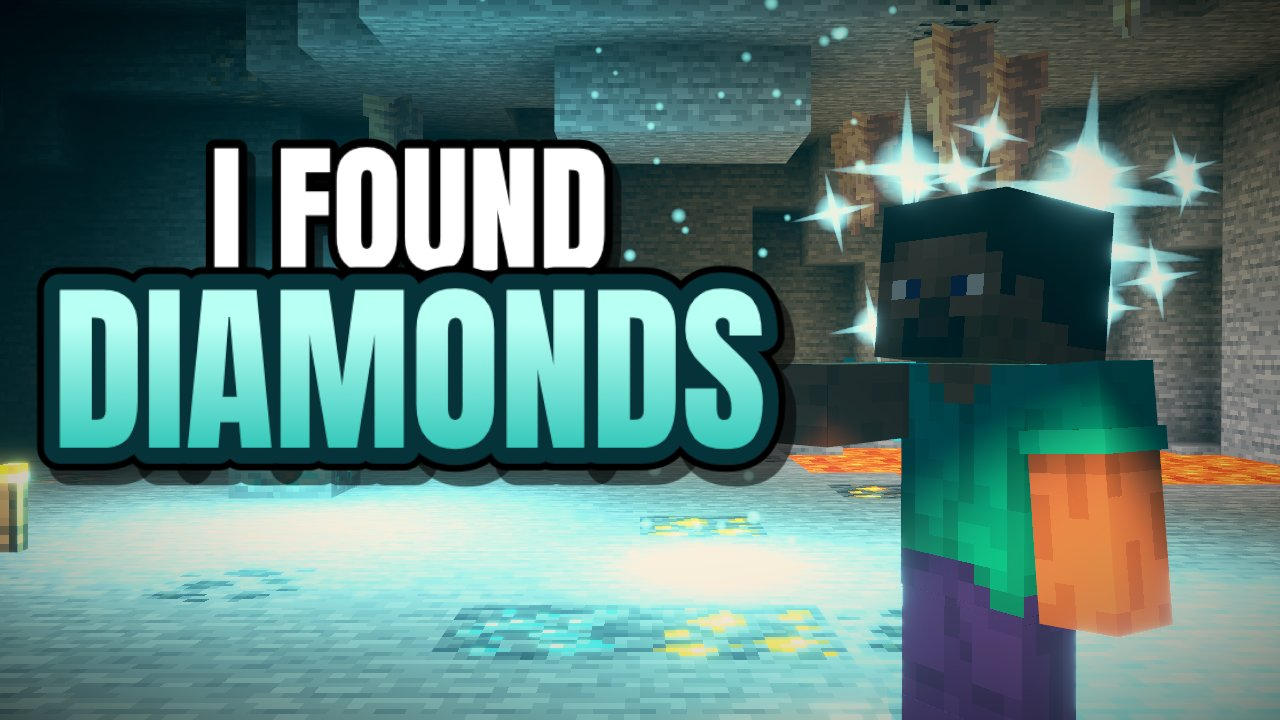
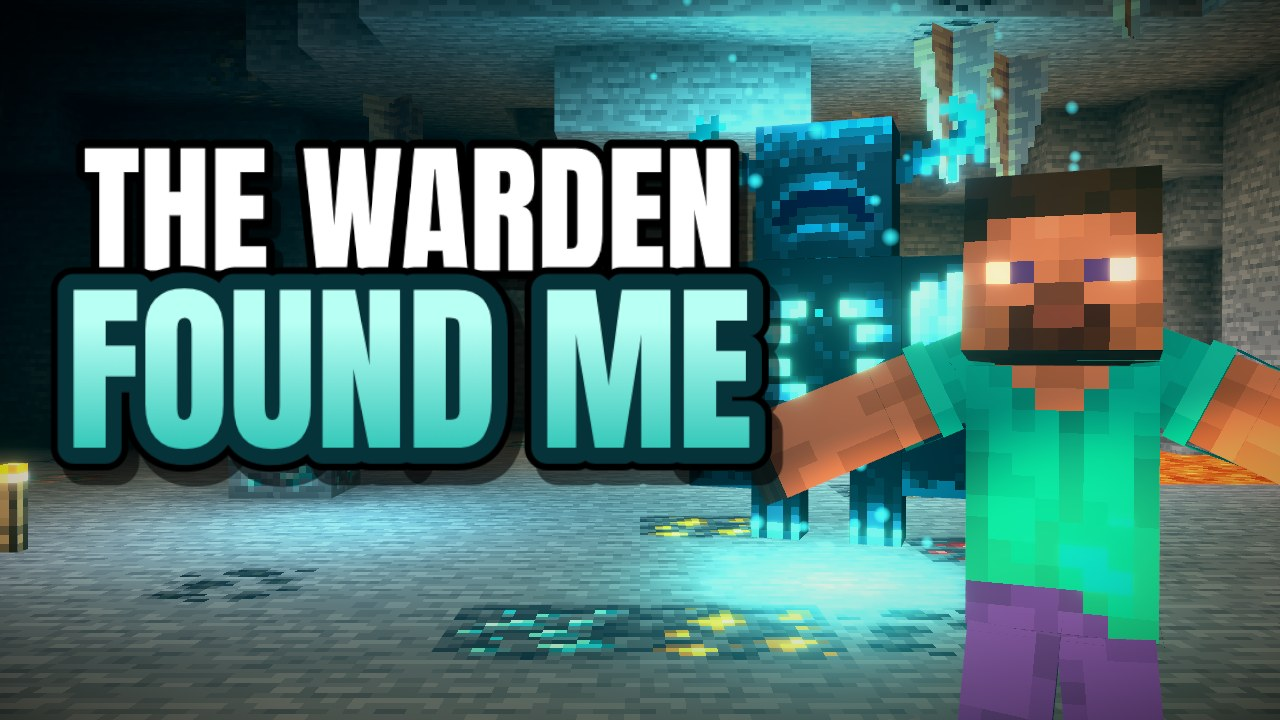
Presets: dungeon Versus with a white VS, untitled Fans poster, re-seated horse rider, Warden concept
- Versus now fights in a new mossy dungeon prop (spawner, chests, wall torches) under a big white VS.
- The Fans poster leaves the sky either side of the giant open for the user's own title.
- Horseback survival turns the horse more side-on and sits Steve higher in the saddle, leaning into the rear;
  the WITH MY HORSE ribbon is gone.
- I found diamonds is replaced by The Warden found me: the Warden looms out of a sculk-lit cave behind a
  terrified player, keeping the stacked two-line title.

Claude-Session: https://claude.ai/code/session_018FphS8BkbqogCNML9Bqtks

diff --git a/src/renderer/src/templates.ts b/src/renderer/src/templates.ts
@@ -2,7 +2,7 @@
 // framed by a saved camera shot. Everything is a normal scene object afterwards, so users just edit the text
 // and swap in their own skin.
 import { buildTower, buildTrunk, type BackdropId } from '@shared/minecraft/backdrops'
-import { buildGlassPane, ruinBlocks, scrambleBlocks } from '@shared/minecraft/props'
+import { buildDungeon, buildGlassPane, ruinBlocks, scrambleBlocks } from '@shared/minecraft/props'
 import type { TerrainData } from '@shared/types'
 import { VFX_PRESETS, type VfxType } from './vfx'
 import * as THREE from 'three'
@@ -208,7 +208,7 @@ function turn(yaw: number, pitch = 0): Vec3 {
 /** Where a rider sits on a horse standing at `at`, turned and leaning like the horse. */
 function saddleOf(at: Vec3, yaw: number, pitch = 0): Vec3 {
   const d = THREE.MathUtils.degToRad
-  const seat = new THREE.Vector3(0, 0.8, -0.1).applyEuler(new THREE.Euler(d(pitch), d(yaw), 0, 'YXZ'))
+  const seat = new THREE.Vector3(0, 0.85, -0.1).applyEuler(new THREE.Euler(d(pitch), d(yaw), 0, 'YXZ'))
   return [at[0] + seat.x, at[1] + seat.y, at[2] + seat.z]
 }
 
@@ -227,21 +227,34 @@ const HORDE_HERO: Vec3 = [-0.42, 0, 2.2]
 export const TEMPLATES: Template[] = [
   {
     id: 'reaction',
-    name: 'Shocked find',
-    hint: 'Big two-line title on the left, you shocked on the right in a cave glittering with diamonds',
+    name: 'The Warden found me',
+    hint: 'Big two-line title on the left, you terrified on the right as the Warden looms out of the dark',
     backdrop: 'cave',
     sky: 'night',
     look: 'teal-orange',
     effects: { bloom: true, bloomIntensity: 0.7, bloomThreshold: 0.7, vignette: true, vignetteDarkness: 0.6 },
-    settings: { renderMode: 'cinematic', sunStrength: 0, ambientStrength: 0.3, fog: true },
-    players: [{ name: 'Steve', pose: 'Pointing', tweak: { head: [-5, 0, 0] }, at: [1.05, 0, 1.6], yaw: -60 }],
-    vfx: [
-      { effect: 'shine', at: [2.2, 1.2, -1.5], color: '#8ff0ff', density: 0.4, scale: 1.1 },
-      { effect: 'embers', at: [0.5, -0.5, -2], color: '#7df9ff', density: 0.4, scale: 0.8 }
+    settings: { renderMode: 'cinematic', sunStrength: 0, ambientStrength: 0.25, fog: true },
+    players: [
+      {
+        name: 'Steve',
+        pose: 'Shocked',
+        tweak: { head: [-10, 0, 0], rightArm: [-35, 0, -65], leftArm: [-35, 0, 65] },
+        at: [1.15, 0, 1.9],
+        yaw: -25
+      }
     ],
+    mobs: [
+      {
+        mob: 'warden',
+        at: [1.45, 0, -3.0],
+        yaw: -20,
+        parts: { right_arm: [-70, 0, 0], left_arm: [-55, 0, 0], head: [10, 0, 0] }
+      }
+    ],
+    vfx: [{ effect: 'embers', at: [1.2, -0.5, -1.5], color: '#29dfeb', density: 0.4, scale: 0.9 }],
     texts: [
       {
-        text: 'I FOUND',
+        text: 'THE WARDEN',
         color: '#ffffff',
         style: 'Bold white',
         screen: [-0.36, 0.36],
@@ -249,7 +262,7 @@ export const TEMPLATES: Template[] = [
         look: { font: '"Anton", Impact, sans-serif', outlineWidth: 10, outline2Width: 0 }
       },
       {
-        text: 'DIAMONDS',
+        text: 'FOUND ME',
         color: '#b8fff4',
         style: 'Diamond',
         screen: [-0.36, -0.1],
@@ -258,16 +271,20 @@ export const TEMPLATES: Template[] = [
       }
     ],
     lights: [
-      { at: [0.2, 2.2, 4.4], aim: [1.05, 1.6, 1.6], color: '#ffc27a', intensity: 160, range: 8 },
-      { at: [2.6, 2.2, -0.5], color: '#5fe8ff', intensity: 90, range: 6 },
-      { at: [-2.5, 1.6, -3.5], color: '#5fe8ff', intensity: 120, range: 9 }
+      { at: [0.4, 2.5, 4.4], aim: [1.15, 1.6, 1.9], color: '#ffc27a', intensity: 260, range: 8 },
+      { at: [0.9, 1.9, 3.3], color: '#ffd8b0', intensity: 8, range: 2.5 },
+      { at: [1.3, 2.8, -1.7], color: '#5fe8ff', intensity: 35, range: 2.5 },
+      // Sculk glow on the Warden, from in front and from behind.
+      { at: [0.6, 2.6, 0.2], aim: [1.45, 2.6, -3.0], color: '#29dfeb', intensity: 240, range: 6 },
+      { at: [2, 3.4, -5.4], color: '#1fb5c9', intensity: 120, range: 6 },
+      { at: [-2.5, 1.6, -3.5], color: '#1d7f9a', intensity: 80, range: 9 }
     ],
     camera: { position: [0, 1.45, 4.6], target: [0, 1.4, 0] },
     fov: 40
   },
   {
     id: 'survival',
-    name: 'Survival with my horse',
+    name: 'Horseback survival',
     hint: 'Big two-line title on the left, you on a rearing horse bursting out of the dark on the right',
     backdrop: 'forest',
     sky: 'night',
@@ -278,10 +295,11 @@ export const TEMPLATES: Template[] = [
       {
         name: 'Steve',
         pose: 'Sitting',
-        tweak: { head: [0, -20, 0], leftArm: [-165, 0, -15] },
-        at: saddleOf(SURVIVAL_HORSE, -55, -30),
-        yaw: -55,
-        pitch: -30,
+        tweak: { head: [0, 30, 0], rightArm: [-160, 0, 15] },
+        at: saddleOf(SURVIVAL_HORSE, -75, -30),
+        yaw: -75,
+        // Leaning into the rear, less tilted than the horse.
+        pitch: -15,
         equipment: { head: 'diamond' }
       }
     ],
@@ -289,7 +307,7 @@ export const TEMPLATES: Template[] = [
       {
         mob: 'horse',
         at: SURVIVAL_HORSE,
-        yaw: -55,
+        yaw: -75,
         pitch: -30,
         texture: 'entity/horse/horse_creamy',
         parts: { right_front_leg: [-50, 0, 0], left_front_leg: [-75, 0, 0], head_parts: [-15, 0, 0] }
@@ -311,13 +329,6 @@ export const TEMPLATES: Template[] = [
         screen: [-0.33, -0.1],
         height: 0.42,
         look: { font: '"Anton", Impact, sans-serif' }
-      },
-      {
-        text: 'WITH MY HORSE',
-        color: '#ffffff',
-        screen: [-0.34, -0.46],
-        height: 0.12,
-        look: { font: '"Anton", Impact, sans-serif', outlineColor: '#e0161b', outlineWidth: 34, shadow: true }
       }
     ],
     lights: [
@@ -332,8 +343,8 @@ export const TEMPLATES: Template[] = [
   {
     id: 'versus',
     name: 'Versus showdown',
-    hint: 'Two armoured fighters face off at the edges of the frame, weapons crossing, title across the top',
-    backdrop: 'cave',
+    hint: 'Two armoured fighters face off in a mossy dungeon, weapons crossing, a big VS between them',
+    backdrop: null,
     sky: 'night',
     look: 'teal-orange',
     effects: { bloom: true, bloomIntensity: 0.7, bloomThreshold: 0.7, vignette: true, vignetteDarkness: 0.45 },
@@ -356,13 +367,27 @@ export const TEMPLATES: Template[] = [
         equipment: { head: 'diamond', chest: 'diamond', legs: 'diamond', feet: 'diamond', mainHand: 'bow' }
       }
     ],
-    texts: [{ text: 'BATTLE', color: YELLOW, style: 'Gold', screen: [0, 0.68], height: 0.3 }],
+    props: [{ name: 'Dungeon', build: () => buildDungeon(), at: [0, -1, 0] }],
+    texts: [
+      {
+        text: 'VS',
+        color: '#ffffff',
+        style: 'Bold white',
+        screen: [0, 0.48],
+        height: 0.5,
+        look: { outlineColor: '#141414', outline2Color: '#000000' }
+      }
+    ],
     lights: [
       { at: [-0.4, 2.4, 3.4], aim: [-1.1, 1.6, 0.3], color: '#ffe0a8', intensity: 70, range: 9 },
       { at: [0.4, 2.4, 3.4], aim: [1.1, 1.6, 0.3], color: '#c8f6ff', intensity: 70, range: 9 },
-      { at: [-3, 2.2, -5], color: '#ff9a3c', intensity: 45, range: 8 },
-      { at: [3, 2.2, -5], color: '#ff9a3c', intensity: 45, range: 8 },
-      { at: [0, 1.2, -7], color: '#ff6a2a', intensity: 25, range: 7 }
+      // The dungeon's wall torches.
+      { at: [-6, 2.6, -3.5], color: '#ff9a3c', intensity: 18, range: 7 },
+      { at: [6, 2.6, -3.5], color: '#ff9a3c', intensity: 18, range: 7 },
+      { at: [-5, 2.6, -5], color: '#ff9a3c', intensity: 18, range: 6 },
+      { at: [5, 2.6, -5], color: '#ff9a3c', intensity: 18, range: 6 },
+      // Spawner glow at the back.
+      { at: [0, 0.8, -4.8], color: '#ff6a2a', intensity: 18, range: 4 }
     ],
     camera: { position: [0, 1.6, 3.15], target: [0, 1.6, -1] },
     fov: 40
@@ -511,7 +536,7 @@ export const TEMPLATES: Template[] = [
   {
     id: 'poster',
     name: 'Poster title',
-    hint: 'A crowned giant looms over three players running at you, the title split either side of its head',
+    hint: 'A crowned giant looms over three players running at you, with open sky either side of its head for your own title',
     backdrop: 'nether',
     sky: 'color',
     skyColor: '#a3101a',
@@ -552,24 +577,7 @@ export const TEMPLATES: Template[] = [
       { name: 'Alex', pose: 'Sprinting', at: [0, 0, 0.6], yaw: 0 },
       { name: 'Steve', pose: 'Running', at: [1.05, 0, 0.2], yaw: -12, equipment: { mainHand: 'diamond_sword' } }
     ],
-    texts: [
-      {
-        text: 'FANS',
-        color: '#ffffff',
-        style: 'Bold white',
-        screen: [-0.6, 0.54],
-        height: 0.3,
-        look: { font: '"Bungee", sans-serif', outline2Color: '#7a0008' }
-      },
-      {
-        text: 'SMP',
-        color: '#ffffff',
-        style: 'Bold white',
-        screen: [0.6, 0.54],
-        height: 0.3,
-        look: { font: '"Bungee", sans-serif', outline2Color: '#7a0008' }
-      }
-    ],
+    texts: [],
     lights: [
       { at: [0, 3, 5.5], aim: [0, 1, 0.3], color: '#ffffff', intensity: 40, range: 10 },
       { at: [0, 6, -14], color: '#ff2a2a', intensity: 400, range: 24 },

diff --git a/src/shared/minecraft/props.ts b/src/shared/minecraft/props.ts
@@ -300,3 +300,30 @@ export function buildTree(kind: TreeKind, seed: number): TerrainData {
     return [leaves, { persistent: 'true', distance: '1' }]
   })
 }
+
+/**
+ * A dungeon room like the game's: mossy cobblestone walls, floor and ceiling, a mob spawner at the back between
+ * two chests, cobwebs in the top corners and wall torches. Open on the +z side so the camera can look in.
+ */
+export function buildDungeon(width = 15, depth = 14, height = 7): TerrainData {
+  const c = Math.floor(width / 2)
+  const back = 1 // first air row inside the back wall
+  return blockBox(width, height, depth, (x, y, z) => {
+    const r = hash(x, y, z, 13)
+    const wall = x === 0 || x === width - 1 || z === 0 || y === 0 || y === height - 1
+    if (wall) {
+      if (y === 0) return r < 0.55 ? 'mossy_cobblestone' : 'cobblestone'
+      return r < 0.35 ? 'mossy_cobblestone' : r < 0.42 ? 'stone' : 'cobblestone'
+    }
+    if (z === back && x === c && y === 1) return 'spawner'
+    if (z === back && (x === c - 3 || x === c + 3) && y === 1) return ['chest', { facing: 'south' }]
+    // Torches on the side walls and the back wall, either side of the spawner.
+    if (y === 3 && x === 1 && (z === 3 || z === 8)) return ['wall_torch', { facing: 'east' }]
+    if (y === 3 && x === width - 2 && (z === 3 || z === 8)) return ['wall_torch', { facing: 'west' }]
+    if (y === 3 && z === back && (x === c - 5 || x === c + 5)) return ['wall_torch', { facing: 'south' }]
+    // Cobwebs tucked into the top corners and along the ceiling's edge.
+    const edge = x === 1 || x === width - 2 || z === back
+    if (y === height - 2 && edge && r < 0.3) return 'cobweb'
+    return null
+  })
+}

diff --git a/README.md b/README.md
@@ -29,13 +29,13 @@ ThumbCraft is a desktop app that turns your own copy of Minecraft into a thumbna
 
 <table>
   <tr>
-    <td><img src="docs/images/scene-0.jpg" alt="Shocked find: a big two-line title beside a player pointing at it in a diamond cave"></td>
-    <td><img src="docs/images/scene-1.jpg" alt="Survival with my horse: a big two-line title beside a player on a rearing horse"></td>
-    <td><img src="docs/images/scene-2.jpg" alt="Versus showdown: two armoured players face off under a BATTLE title"></td>
+    <td><img src="docs/images/scene-0.jpg" alt="The Warden found me: a big two-line title beside a terrified player with the Warden looming behind"></td>
+    <td><img src="docs/images/scene-1.jpg" alt="Horseback survival: a big two-line title beside a player riding a rearing horse"></td>
+    <td><img src="docs/images/scene-2.jpg" alt="Versus showdown: two armoured players face off in a dungeon under a big VS"></td>
   </tr>
   <tr>
-    <td align="center"><sub>Shocked find</sub></td>
-    <td align="center"><sub>Survival with my horse</sub></td>
+    <td align="center"><sub>The Warden found me</sub></td>
+    <td align="center"><sub>Horseback survival</sub></td>
     <td align="center"><sub>Versus showdown</sub></td>
   </tr>
 </table>
